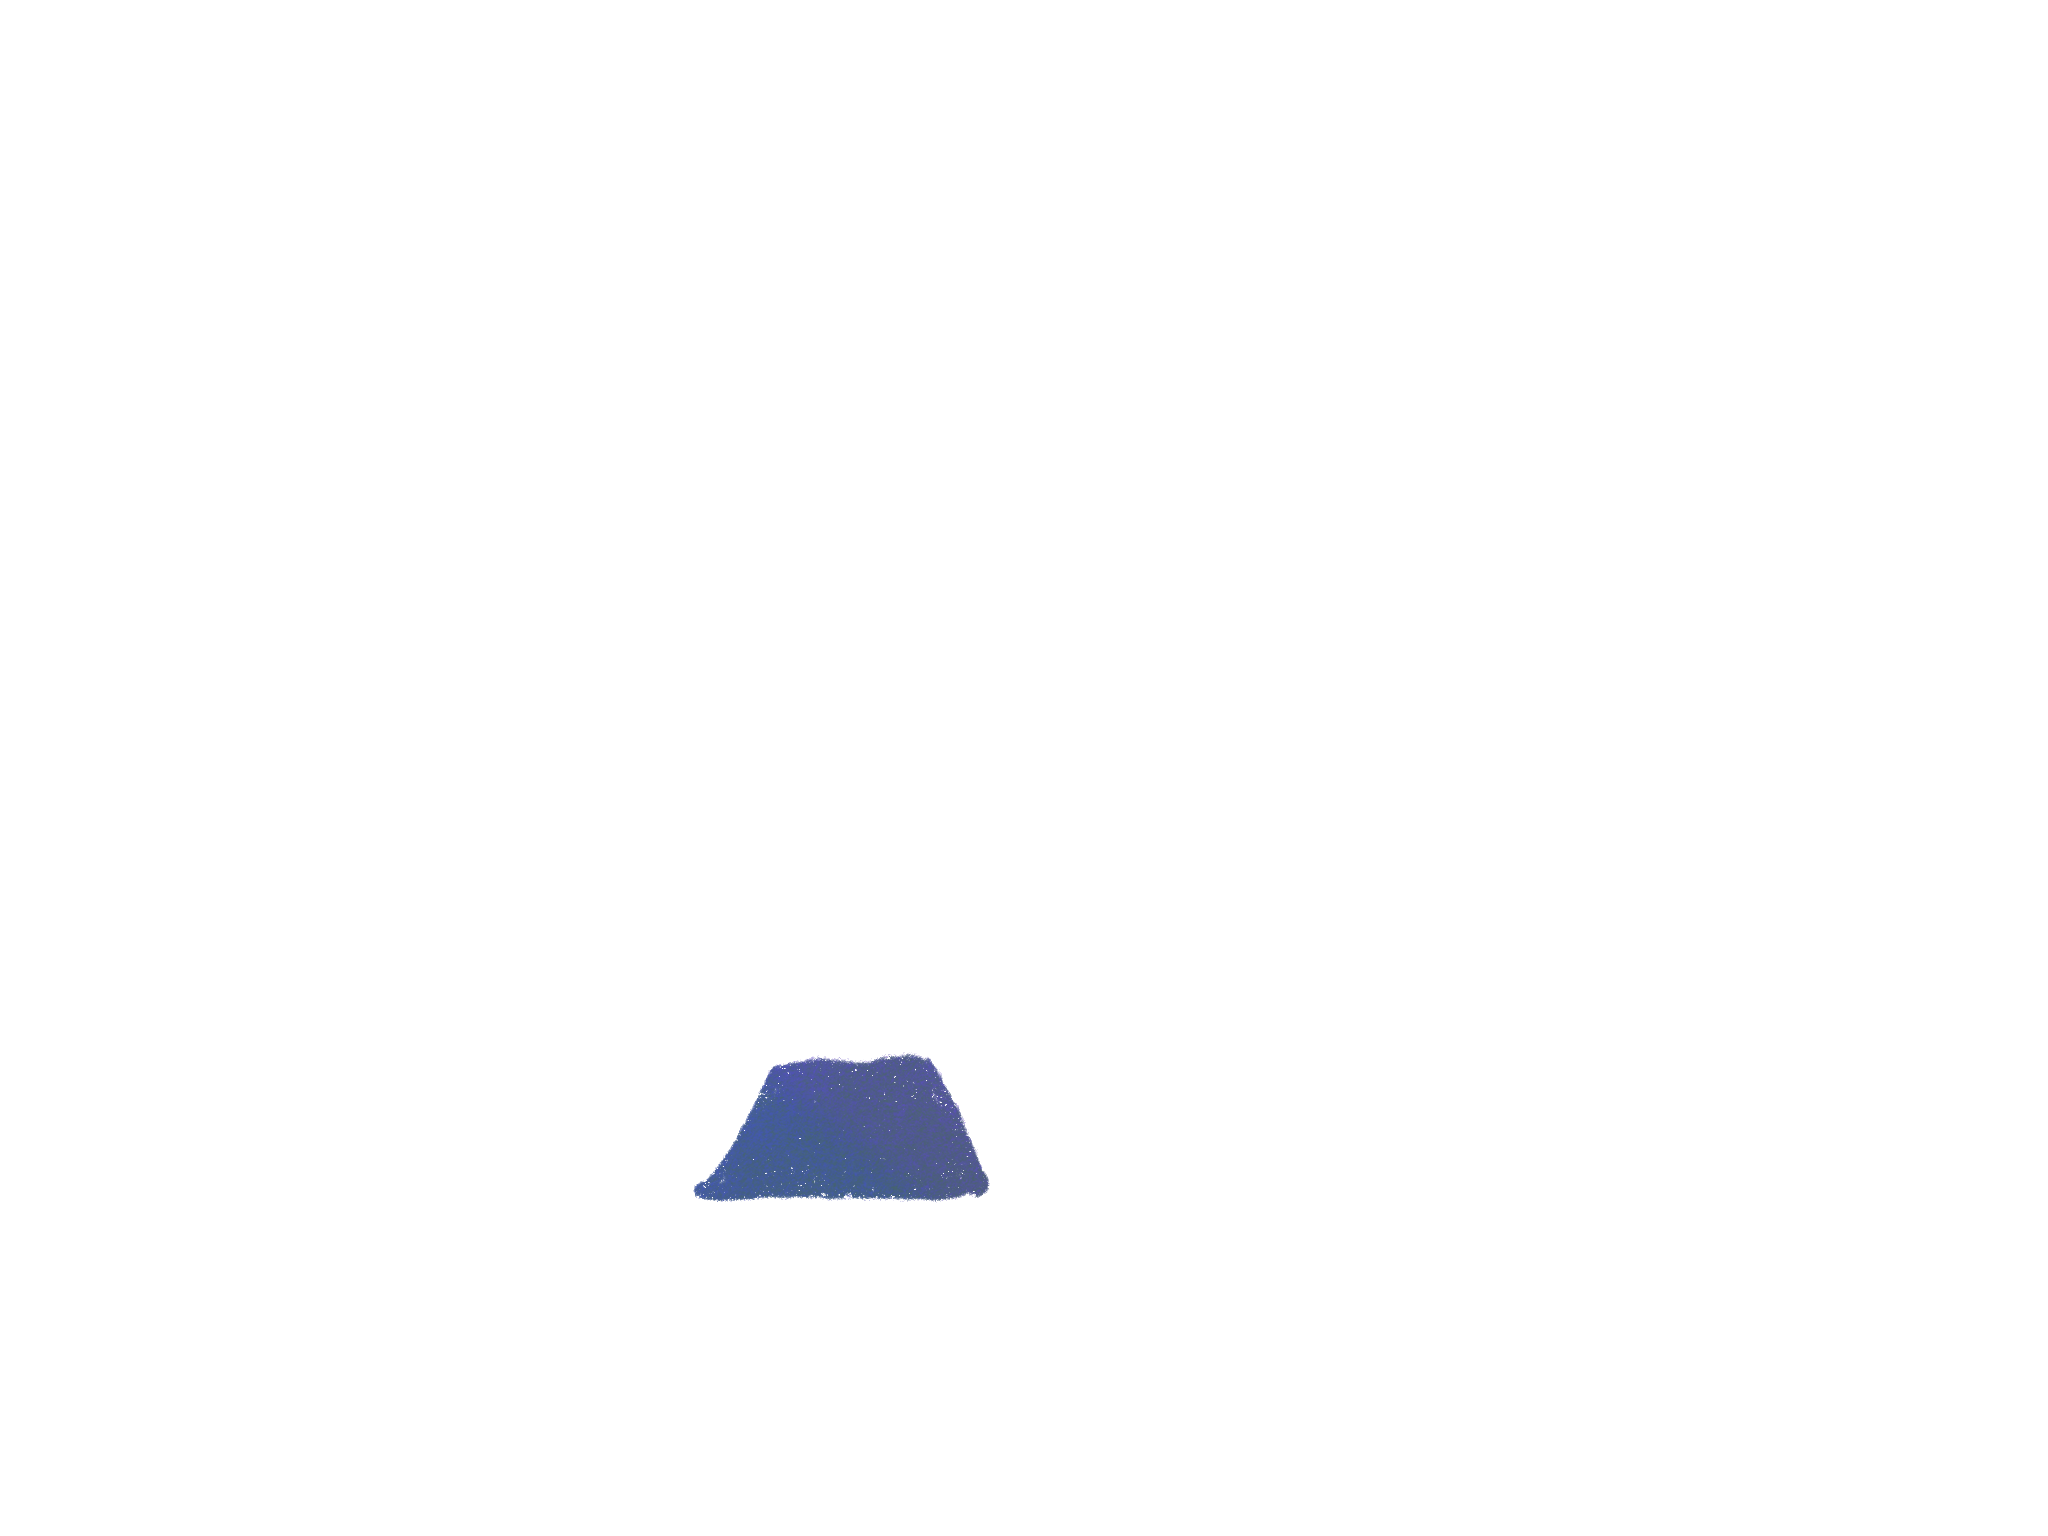
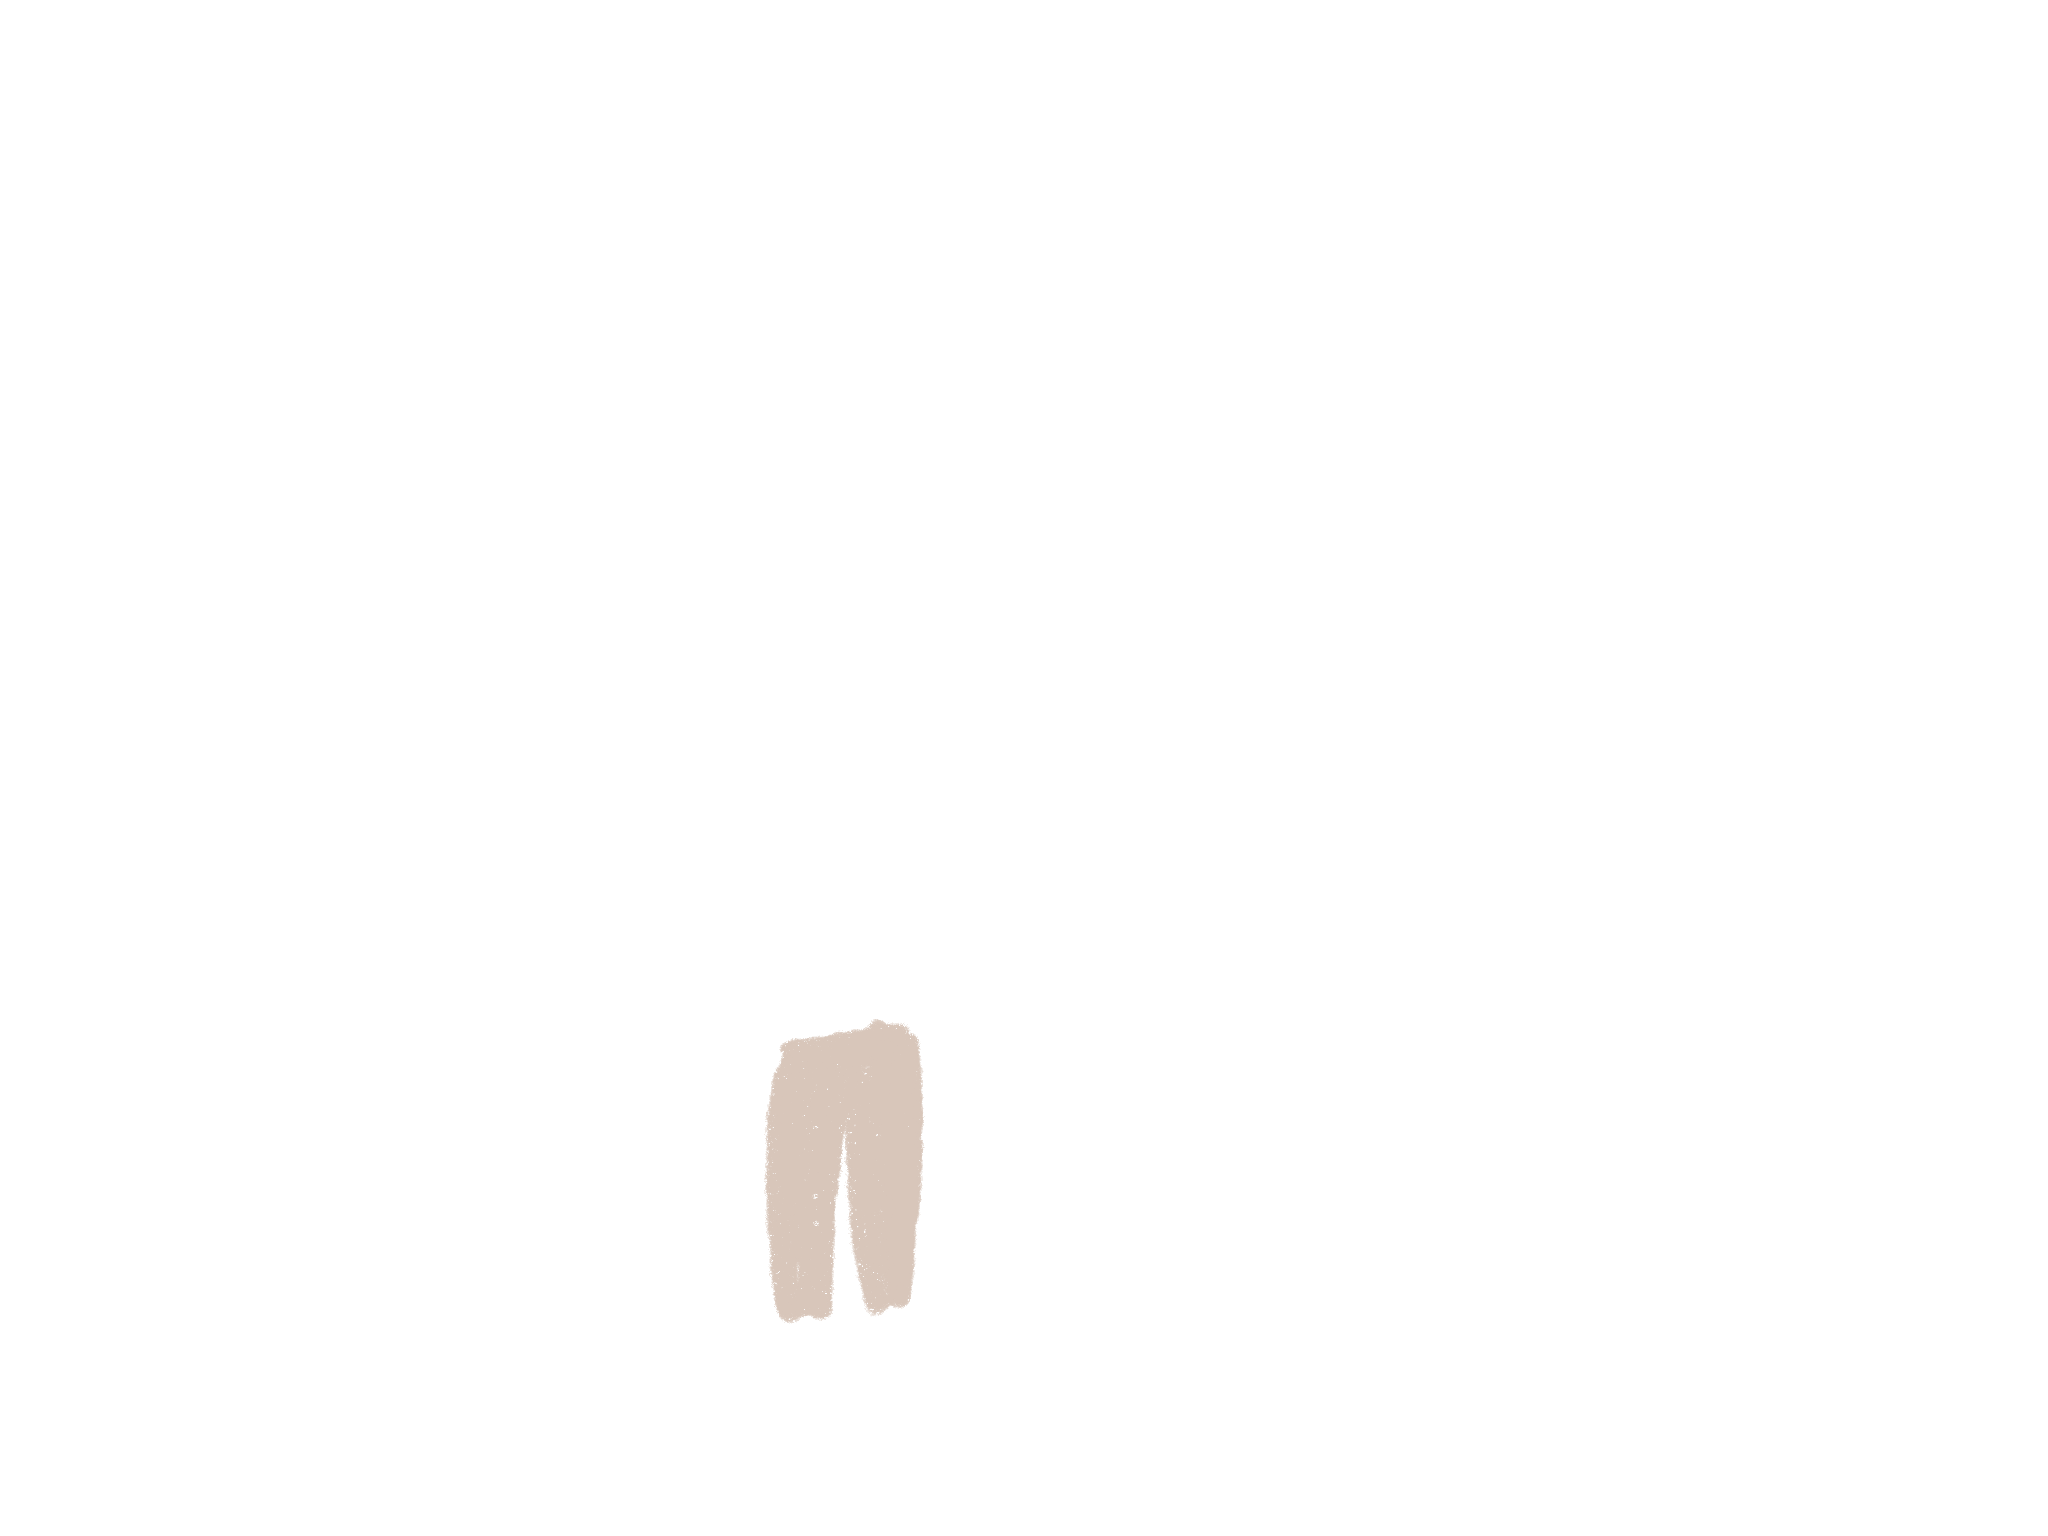
1

Changed region(s): [[0.3438, 0.6562, 0.5, 0.875]]

diff --git a/005DressUp/test.html b/005DressUp/test.html
@@ -1,0 +1,88 @@
+<!DOCTYPE html>
+<html lang="en">
+<head>
+    <meta charset="UTF-8">
+    <title>test</title>
+    <style>
+        #body{
+            height:1536px;
+            width:2048px;
+            background-image:url("body.png");
+            background-size: 40%;
+            background-repeat:no-repeat;
+            position:absolute;
+            margin:50px;
+            z-index:-1;
+        }
+        #body div{
+            height:1536px;
+            width:2048px;
+            position:absolute;
+            background-size: 40%;
+            background-repeat:no-repeat;
+            z-index:-1;
+        }
+        ul{
+            /*float:left;*/
+            /*width:100%;*/
+            list-style-type:none;
+        }
+        a{
+            text-decoration:none;
+            color:white;
+            float:left;
+            padding:2.5em 6em;
+            background-color:lightblue;
+            border-right:5px solid white;
+
+        }
+        a:hover{
+            background-color:pink;
+        }
+    </style>
+</head>
+<body>
+<ul id="menu">
+    <li><a href="#" id="hair2" onclick="hair2()">hair</a></li>
+    <li><a href="#" id="upper2" onclick="upper2()">upper</a></li>
+    <li><a href="#" id="dress2" onclick="dress2()">dress</a></li>
+</ul>
+<div id="body">
+    <div id="hair"></div>
+    <div id="upper"></div>
+    <div id="dress"></div>
+</div>
+</body>
+<script>
+    var hairIs,upperIs,dressIs;
+    function hair2(){
+        if(hairIs=="hair1"){
+            document.getElementById("hair").style.backgroundImage = "url('hair2.png')";
+            return hairIs = "hair2";
+        }
+        else {
+            document.getElementById("hair").style.backgroundImage = "url('hair1.png')";
+            return hairIs = "hair1";
+        }
+    }
+    function upper2(){
+        if(upperIs=="upper1"){
+            document.getElementById("upper").style.backgroundImage = "url('upper2.png')";
+            return upperIs = "upper2";
+        }
+        else {
+            document.getElementById("upper").style.backgroundImage = "url('upper1.png')";
+            return upperIs = "upper1";
+        }
+    }function dress2(){
+        if(dressIs=="dress1"){
+            document.getElementById("dress").style.backgroundImage = "url('dress2.png')";
+            return dressIs = "dress2";
+        }
+        else {
+            document.getElementById("dress").style.backgroundImage = "url('dress1.png')";
+            return dressIs = "dress1";
+        }
+    }
+</script>
+</html>
